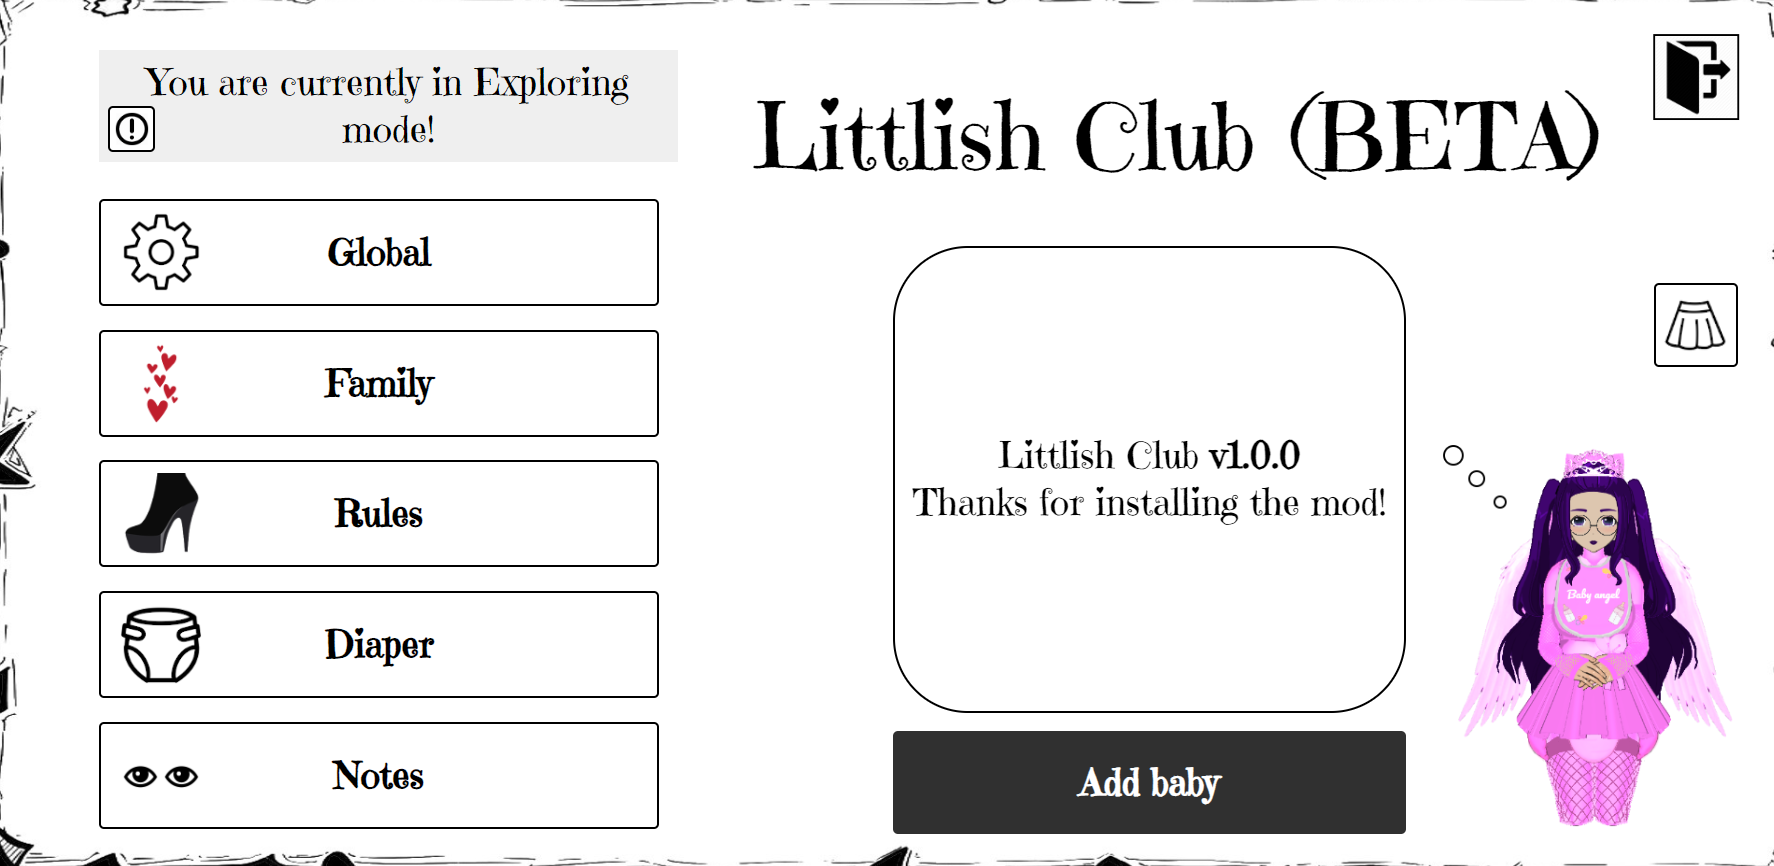
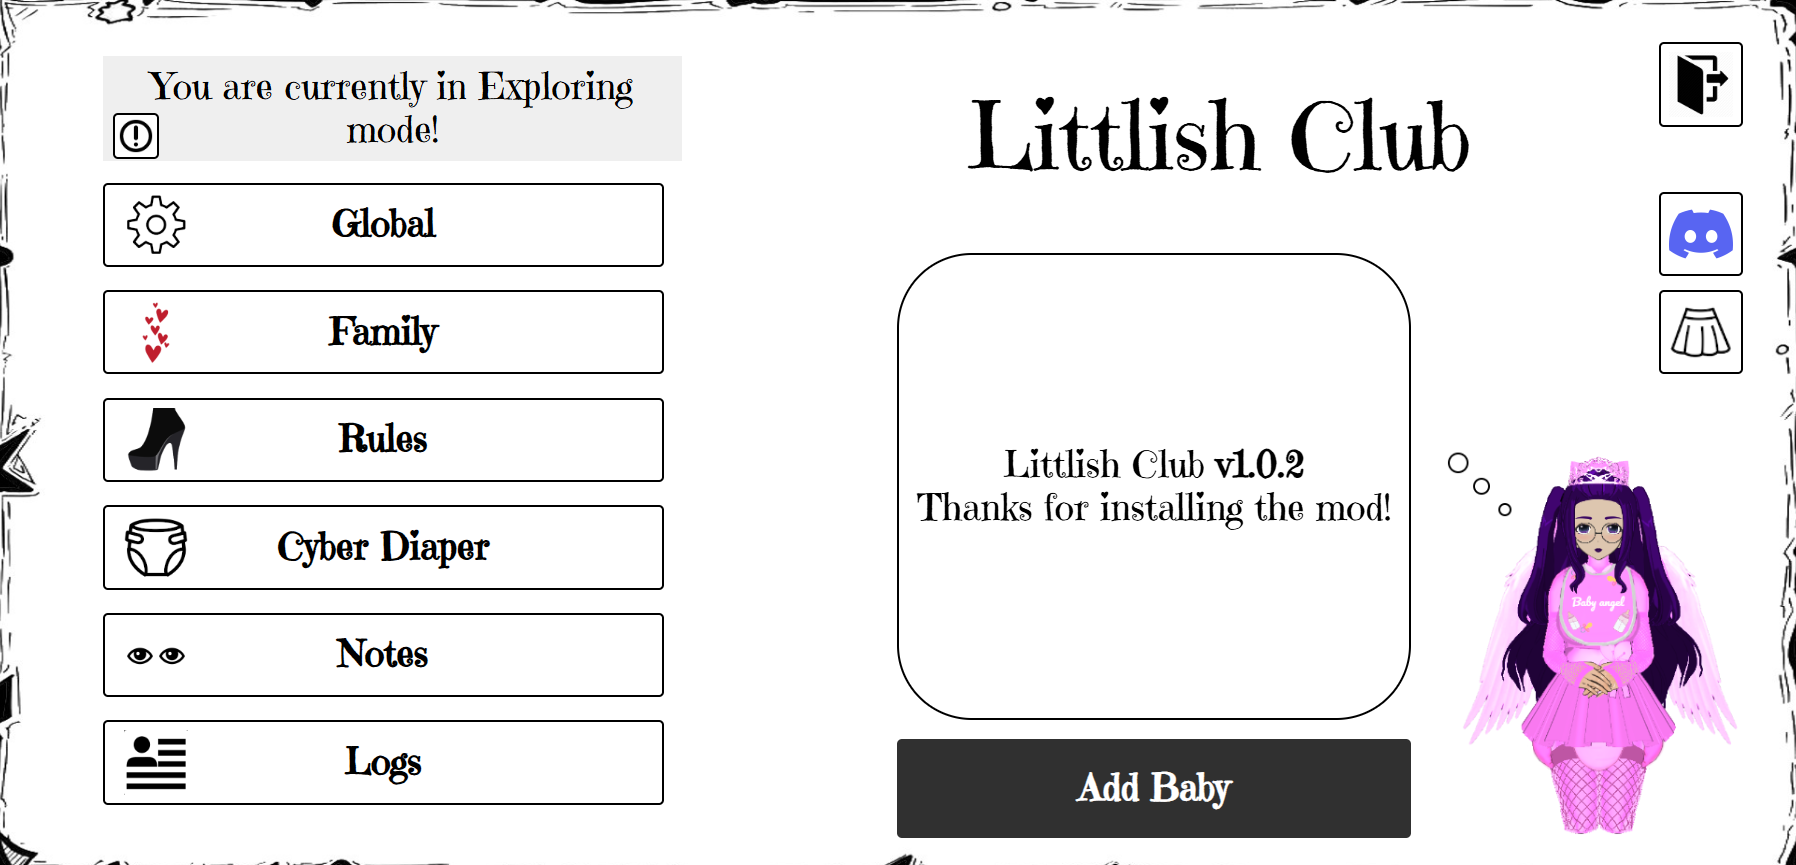
Updating README.md and changing exit button UI

diff --git a/src/subscreens/baseSubscreen.ts b/src/subscreens/baseSubscreen.ts
@@ -137,6 +137,17 @@ function autosetFontSize(element: HTMLElement) {
     });
 }
 
+function loadSubscreen(subscreen: BaseSubscreen): void {
+    subscreen.createButton({
+        x: 1815,
+        y: 75,
+        width: 90,
+        height: 90,
+        icon: "Icons/Exit.png"
+    }).addEventListener("click", () => subscreen.exit());
+    subscreen.load();
+}
+
 export function setPreviousSubscreen(): void {
     setSubscreen(previousSubscreen);
 }
@@ -144,7 +155,7 @@ export function setPreviousSubscreen(): void {
 export function setSubscreen(subscreen: BaseSubscreen | null): void {
     previousSubscreen = currentSubscreen;
     currentSubscreen = subscreen;
-    if (currentSubscreen) currentSubscreen.load();
+    if (currentSubscreen) loadSubscreen(currentSubscreen);
     if (previousSubscreen) previousSubscreen.unload();
 }
 

diff --git a/src/subscreens/mainMenu.ts b/src/subscreens/mainMenu.ts
@@ -53,7 +53,7 @@ export class MainMenu extends BaseSubscreen {
 
         if (InformationSheetSelection.IsPlayer()) {
             const addBabyBtn = this.createButton({
-                text: "Add baby",
+                text: "Add Baby",
                 x: 1000,
                 y: 820,
                 width: 550,
@@ -86,16 +86,9 @@ export class MainMenu extends BaseSubscreen {
             this.setSubscreen(new WardrobeMenu());
         });
 
-        // this.createText({
-        //     text: MOD_NAME,
-        //     x: 1075,
-        //     y: 120,
-        //     fontSize: 10
-        // });
-
         this.createText({
-            text: MOD_NAME + " (BETA)",
-            x: 850,
+            text: MOD_NAME,
+            x: 1075,
             y: 120,
             fontSize: 10
         });

diff --git a/src/modules/ui.ts b/src/modules/ui.ts
@@ -33,7 +33,6 @@ export function loadUI(): void {
             );
         }
         if (window.LITTLISH_CLUB.inModSubscreen()) {
-            DrawButton(1815, 75, 90, 90, "", "White", "Icons/Exit.png");
             return currentSubscreen.run();
         }
         next(args);
@@ -55,9 +54,7 @@ export function loadUI(): void {
             else setSubscreen(new MainMenu());
         }
         if (window.LITTLISH_CLUB.inModSubscreen()) {
-            if (MouseIn(1815, 75, 90, 90)) currentSubscreen.exit();
-            else currentSubscreen.click();
-            return;
+            return currentSubscreen.click();
         }
         next(args);
     });

diff --git a/README.md b/README.md
@@ -1,17 +1,21 @@
 # <b>Littlish Club</b>
 ![preview](src/images/preview.png)
-Similar to <b>BCX</b> but with <b>ABDL</b> aspects.<br>
+Similar to <b>BCX</b> but with <b>ABDL</b> aspects.
 ## It's still at an early stage of development.
 # Features
-| Name                       | Description                                                                                                                                                                                             |
-|----------------------------|---------------------------------------------------------------------------------------------------------------------------------------------------------------------------------------------------------|
-| Exploring Mode             | Exploring mode allows you to explore the mod without having family.                                                                                                                                     |
-| Family                     | You can have your own family: babies, mommy, or caregivers. Mommy always has all access rights, access rights of caregivers are configured in the settings.                                             |
-| Rules                      | Rules let you to manipulate events, restrictions, functions that will work. You can also set conditions under which rule will be active.                                                                |
-| Diaper Games               | Diaper locking so that the baby cannot take it off on them own. Diaper changes. Diuretics and laxatives. <p style="color: cyan;">[Not implemented yet, I am deciding how to integrate it with ABCL]</p> |
-| Notes                      | You can leave notes so that mommy or caregivers can read it.                                                                                                                                            |
-| Littlish Wardrobe          | Outfits library with a lot of different babiesh cute outfits. Many thanks to everyone who provided the outfits ^.^                                                                                      |
-## Installation
+| Name | Description |
+|:-----------------:|--------------------|
+| Exploring Mode | Exploring mode allows you to explore the mod without having family. It removes all restrictions and allows you to fully manage your mod settings.|
+| Family                     | You can have your own family: babies, mommy and caregivers. Mommy always has all access rights, access rights of caregivers are configured in the settings.  |
+| Rules | Rules let you to manipulate events, restrictions, functions that will work. You can also set conditions under which rule will be active. More rules will be added in future.|
+| Cyber Diaper | High-tech diaper equipped with a large capacity and a system that allows you to lock it and change it without removing it. [Wetting and messing mechanics will be provided from ABCL addon, its not Littlish Club's part]|
+| Notes                      | Users can leave notes so that mommy or caregivers can read them. |
+| Logs | Records of recent actions, changes, by whom they were made and when. |
+| Littlish Wardrobe          | Outfits library with a lot of different babiesh cute outfits. Many thanks to everyone who provided the outfits ^.^                                                                                  |
+# 💜 Thanks
+- **dDeepLb**: Thanks you for developing Themed API and helping me implement it into Littlish Club, thanks for the advice and code references.<br>
+~~DeepL :3~~
+# Installation
 ### Tampermonkey
 https://github.com/FurryZoi/Littlish-Club/raw/main/littlishClub.user.js
 ### Bookmark
